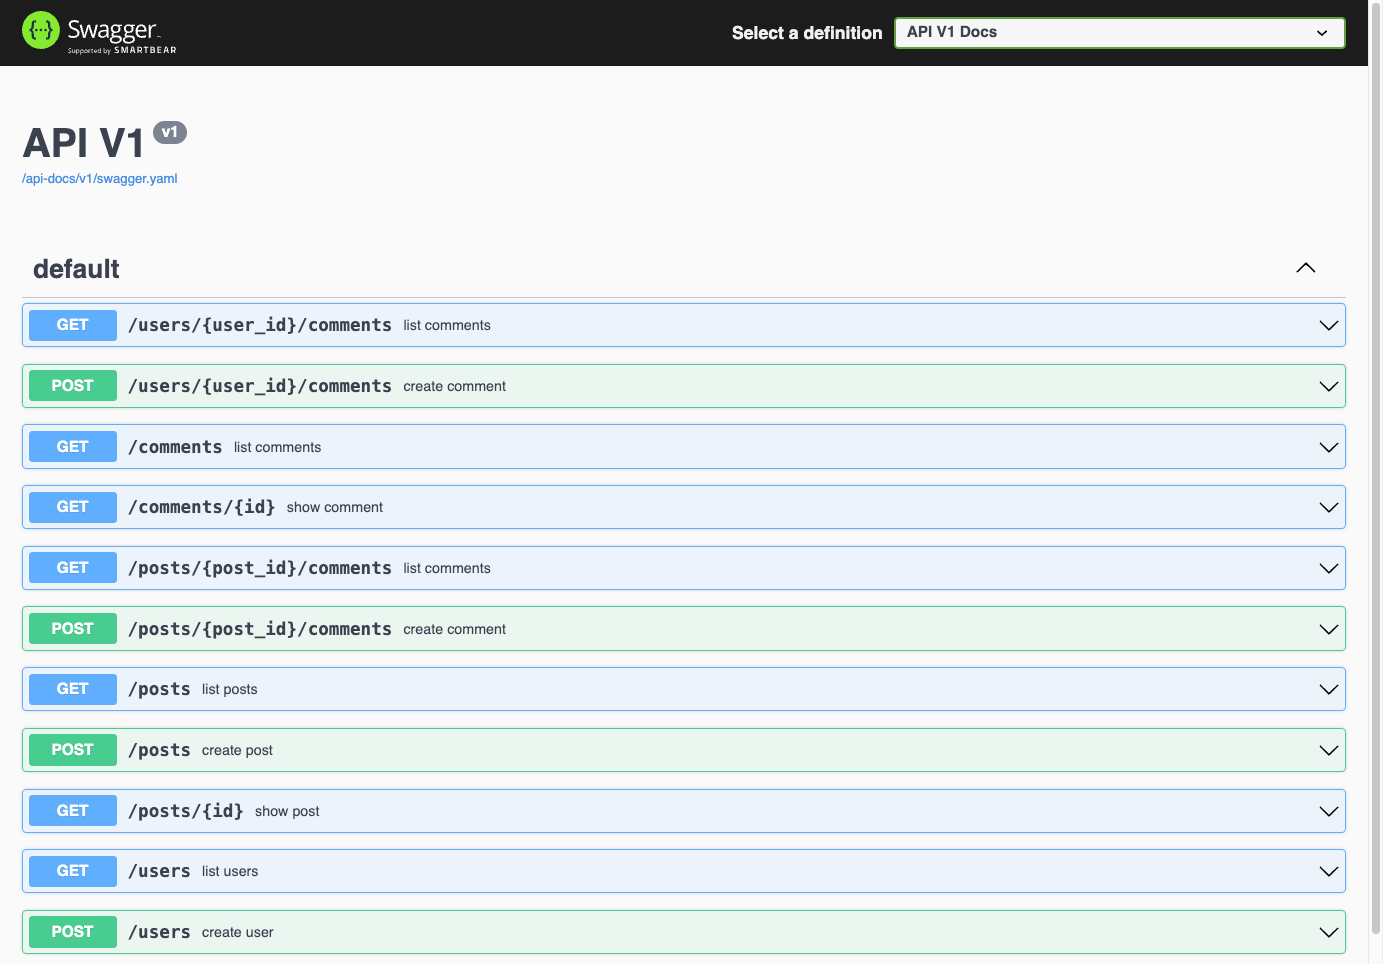
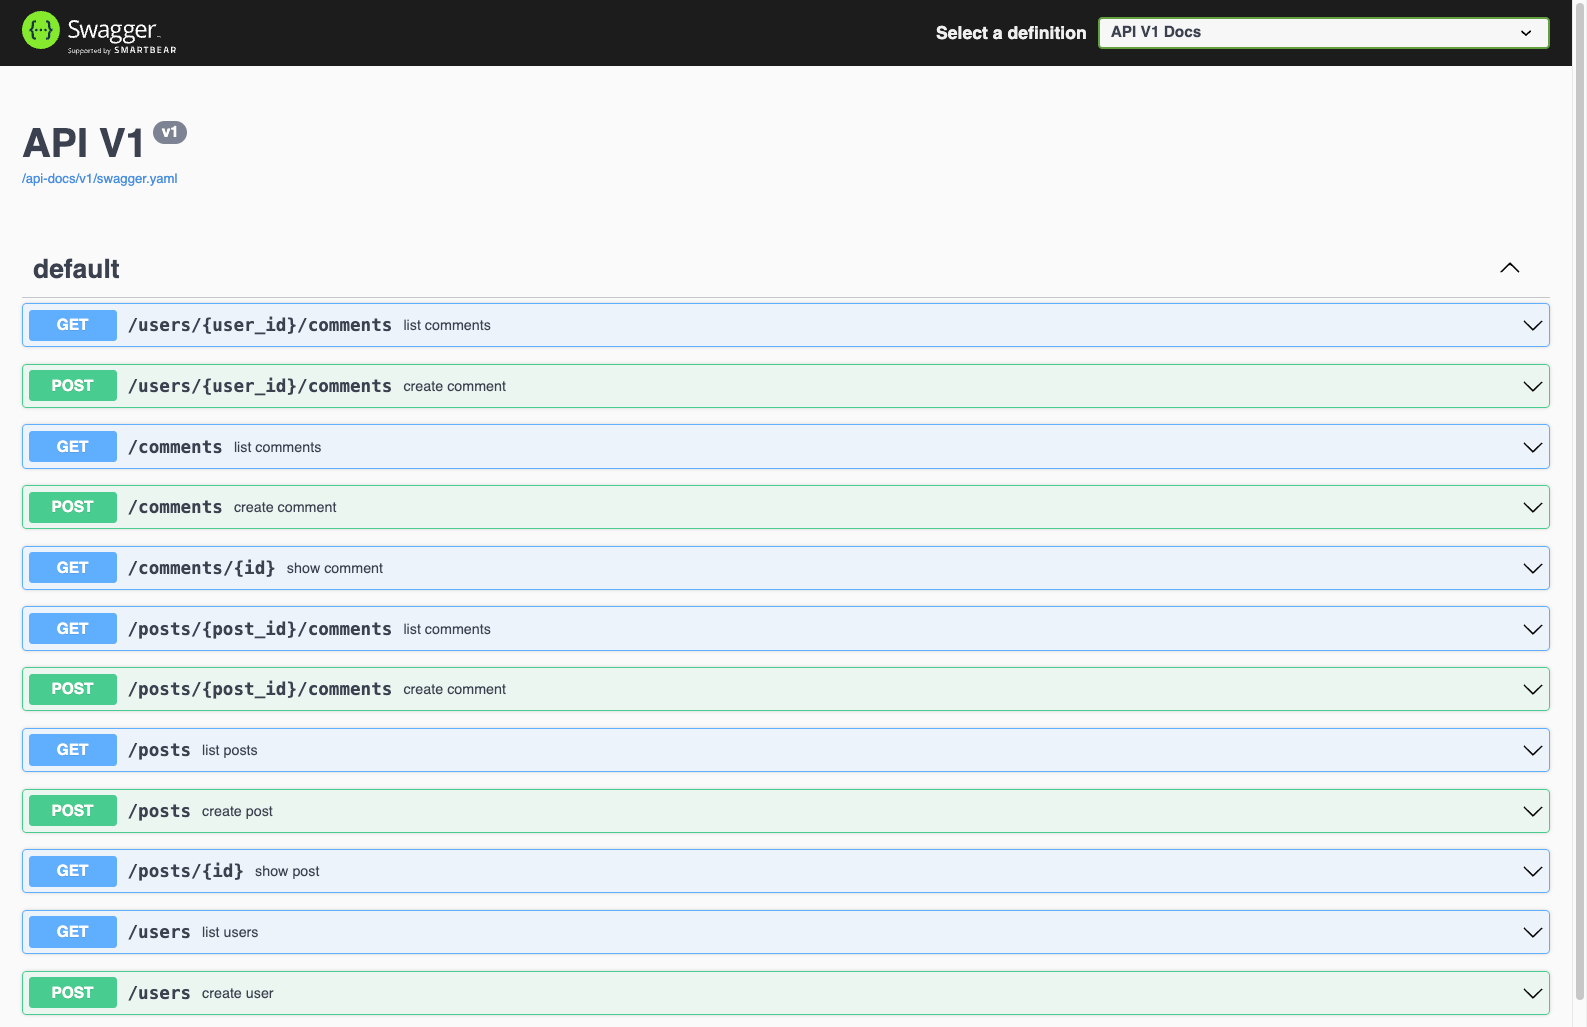
Support for creating Comments without a post_id

Changed region(s): [[0.0, 0.249, 0.9949, 0.9959], [0.0, 0.0, 0.9949, 0.1867], [0.9328, 0.9025, 0.9949, 0.9959]]

diff --git a/spec/requests/comments_spec.rb b/spec/requests/comments_spec.rb
@@ -92,6 +92,42 @@ RSpec.describe 'comments', type: :request do
         end
       end
     end
+
+    post('create comment') do
+      consumes 'application/json'
+      parameter name: :comment, in: :body, required: true, schema: {
+        type: :object,
+        properties: {
+          user_id: { type: :string },
+          comment_id: { type: :string },
+          content: { type: :string }
+        },
+      }
+
+      response(201, 'successful') do
+        user, _post, comment = create_test_data()
+
+        let(:comment_content) { Faker::Lorem.sentence }
+        let(:comment) { { user_id: user.id, comment_id: comment.id, content: comment_content } }
+
+        after do |example|
+          example.metadata[:response][:content] = {
+            'application/json' => {
+              example: JSON.parse(response.body, symbolize_names: true)
+            }
+          }
+        end
+
+        run_test! do |response|
+          result = JSON.parse(response.body)
+
+          expect(result.dig('user_id')).to eq(user.id)
+          expect(result.dig('comment_id')).to eq(comment.id)
+          expect(result.dig('id')).not_to eq(comment.id)
+          expect(result.dig('content')).to eq(comment_content)
+        end
+      end
+    end
   end
 
   path '/comments/{id}' do

diff --git a/app/controllers/comments_controller.rb b/app/controllers/comments_controller.rb
@@ -21,7 +21,11 @@ class CommentsController < ApplicationController
     user = params.fetch(:user, {}).permit!
 
     @user = User.find(params[:user_id] || user[:id])
-    @post = Post.find(params[:post_id] || post[:id])
+    @post = if comment[:comment_id]
+              Comment.find(comment[:comment_id]).post
+            else
+              Post.find(params[:post_id] || post[:id])
+            end
 
     @comment = @post.comments.create(comment.merge({ user: @user }))
 
